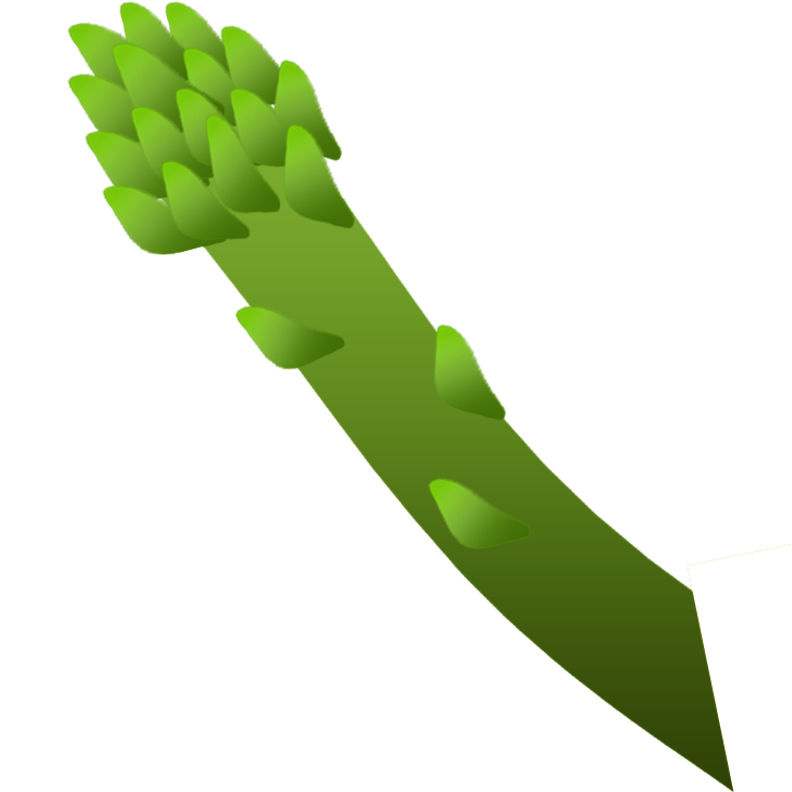
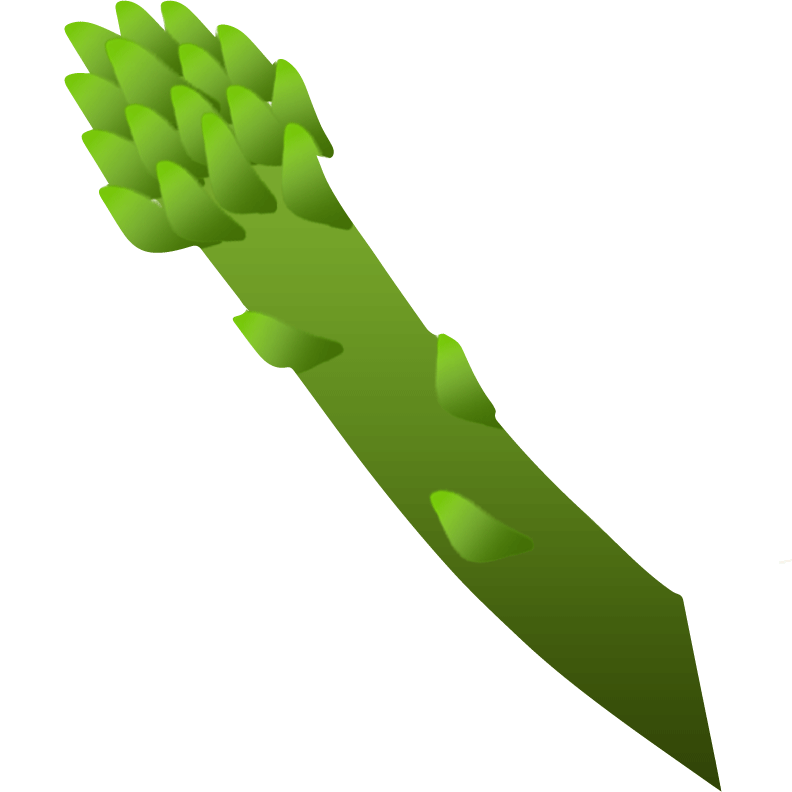
- Added new images since previous images had some errors - I know whats up with the saving stuff. We might have to some things - Tips and notes now save when you leave current view.

diff --git a/Garden_messaingaround/Garden_messaingaround/ViewControllerDisplayGarden.m b/Garden_messaingaround/Garden_messaingaround/ViewControllerDisplayGarden.m
@@ -397,29 +397,6 @@
 }
 
 -(UIImage *)capture{
-//    UIGraphicsBeginImageContext(self.view.bounds.size);
-//    [self.view.layer renderInContext:UIGraphicsGetCurrentContext()];
-//    UIImage *imageView = UIGraphicsGetImageFromCurrentImageContext();
-//    UIGraphicsEndImageContext();
-//    UIImageWriteToSavedPhotosAlbum(imageView, nil, nil, nil); //if you need to save
-//    return imageView;
-//    CGSize screenSize = [[UIScreen mainScreen] bounds].size;
-//    CGSize size = CGSizeMake(screenSize.width, screenSize.width);
-//    
-//    UIGraphicsBeginImageContextWithOptions(size, NO, [UIScreen mainScreen].scale);
-//    
-//    CGRect rec = CGRectMake(0, 0, screenSize.width, screenSize.width);
-//    [self.view drawViewHierarchyInRect:rec afterScreenUpdates:YES];
-//    
-//    UIImage *image = UIGraphicsGetImageFromCurrentImageContext();
-//    UIGraphicsEndImageContext();
-//    return image;
-//    
-//    
-//    UIGraphicsBeginImageContext(self.view.bounds.size);
-//    [self.parentViewController.view.layer renderInContext:UIGraphicsGetCurrentContext()];
-//    UIImage *image = UIGraphicsGetImageFromCurrentImageContext();
-//    UIGraphicsEndImageContext();
     
 //    http://stackoverflow.com/questions/14376249/creating-a-uiimage-from-a-uitableview
     
@@ -427,7 +404,6 @@
     
     CGRect frame = collectionView.frame;
     frame.size.height = collectionView.contentSize.height;
-//    frame.size.width = collectionView.contentSize.width;
     collectionView.frame = frame;
     
     UIGraphicsBeginImageContext(collectionView.bounds.size);
@@ -439,11 +415,11 @@
 }
 
 -(IBAction) takePhoto: (id) sender {
-    [shot setBackgroundColor:[UIColor colorWithPatternImage:[UIImage imageNamed:@"dirt3brown"]]];
+    shot.backgroundColor = [UIColor colorWithPatternImage:[UIImage imageNamed:@"dirt3brown"]];
     shot.image = [self capture];
-    [shot setNeedsDisplay];
     shot.hidden = NO;
     shot.alpha = 1.0f;
+    [shot setNeedsDisplay];
     [UIView animateWithDuration:0.5 delay:2.0 options:0 animations:^{
         shot.alpha = 0.0f;
     } completion:^(BOOL finished) {
@@ -480,9 +456,41 @@
     }
     
 }
+
+-(void) synchData {
+    NSLog(@"Kind of GlobalObjects is kind of : %@\n ",[[[GloablObjects instance].myGarden gardenArr2d]   class]);
+//    if([(NSMutableArray *)[[GloablObjects instance].myGarden gardenArr2d]  isKindOfClass:[NSArray class]]) {
+////    if ([[GloablObjects instance].myGarden gardenArr2d] isKindOfClass:[NSArray class] ) {
+//        [self.plant saveDatatoDefaults:[[GloablObjects instance].myGarden gardenArr2d] theGardenName:[[GloablObjects instance].myGarden name]];
+//    }
+    [self.view setNeedsDisplay];
+    NSLog(@"The Actual Plant Data contains real Objects: @\n%@\n ",[[self.plant plantsDataArray]objectAtIndex:0 ]);
+    NSLog(@"The Global Object contains addresses?: @\n%@\n ",[[GloablObjects instance].myGarden gardenArr2d]);
+
+    NSLog(@"This should return a garden name from saved file: @\n%@\n ",[self.plant getUserDataFromDefaults:[[GloablObjects instance].myGarden name]]);
+    
+}
+
+- (void)viewWillDisappear:(BOOL)animated
+{
+    if ([self isMovingFromParentViewController])
+    {
+        NSLog(@"View controller was popped");
+    }
+    else
+    {
+        NSLog(@"New view controller was pushed");
+        [self synchData];
+    }
+}
+
+
+
 - (void)didReceiveMemoryWarning {
     [super didReceiveMemoryWarning];
     // Dispose of any resources that can be recreated.
+    [self synchData];
+
 }
 
 

diff --git a/Garden_messaingaround/Garden_messaingaround/PlantObject.m b/Garden_messaingaround/Garden_messaingaround/PlantObject.m
@@ -21,11 +21,12 @@
     self = [super init];
     if (self) {
         
-        
+//        NSMutableArray *topLevelArray = [NSJSONSerialization JSONObjectWithData:data options:NSJSONReadingMutableContainers error:nil];
+//        NSDictionary *dict = topLevelArray[0];
         NSString *filePath = [[NSBundle mainBundle] pathForResource:@"plantDataReal" ofType:@"json"];
         NSString *myJSON = [[NSString alloc] initWithContentsOfFile:filePath encoding:NSUTF8StringEncoding error:NULL];
         NSError *error =  nil;
-        self.plantsDataArray = [NSJSONSerialization JSONObjectWithData:[myJSON dataUsingEncoding:NSUTF8StringEncoding] options:kNilOptions error:&error];
+        self.plantsDataArray = [NSJSONSerialization JSONObjectWithData:[myJSON dataUsingEncoding:NSUTF8StringEncoding] options:NSJSONReadingMutableContainers error:&error];
         self.usersPlants = [NSMutableArray array];
     }
     return self;
@@ -167,16 +168,33 @@
     
     if (![[NSFileManager defaultManager] fileExistsAtPath:userDataPath])
         [[NSFileManager defaultManager] createDirectoryAtPath:userDataPath withIntermediateDirectories:NO attributes:nil error:&error]; //Create folder
-    
-//    NSString *yourSoundPath = [documentsDirectory stringByAppendingPathComponent:filename];
     NSLog(@"Get Path is: %@\n", userDataPath);
     
     NSString *content = [NSString stringWithContentsOfFile:userDataPath encoding:NSUTF8StringEncoding error:NULL];
     
-//    NSError *jsonError;
-//    NSMutableDictionary *jsonDict = [NSJSONSerialization JSONObjectWithData:[jsonString dataUsingEncoding:NSUTF8StringEncoding] options:NSJSONReadingMutableContainers error:&jsonError];
-    
     return content;
+}
+
+
+
+
+-(void) saveDatatoDefaults: (NSMutableArray *) userGardendata theGardenName: (NSString *) gardenName {    NSUserDefaults *defaults = [NSUserDefaults standardUserDefaults];    if([[NSUserDefaults standardUserDefaults] objectForKey:gardenName] != nil) {
+        [[NSUserDefaults standardUserDefaults] synchronize];
+    } else {
+        [defaults setObject:[userGardendata mutableCopy] forKey:gardenName];
+        [[NSUserDefaults standardUserDefaults] synchronize];
+
+    }
+    
+}
+
+- (id) objectFromDataWithKey:(NSString*)key {
+    NSData *data = [[NSUserDefaults standardUserDefaults] objectForKey:key];
+    return [NSKeyedUnarchiver unarchiveObjectWithData:data];
+}
+
+-(NSMutableArray *) getUserDataFromDefaults: (NSString *) gardenName {    return [self objectFromDataWithKey:gardenName] ;
+    
 }
 
 -(void) setImage: (NSString *) imageURL {

diff --git a/Garden_messaingaround/Garden_messaingaround/ViewControllerPlantViews.m b/Garden_messaingaround/Garden_messaingaround/ViewControllerPlantViews.m
@@ -54,13 +54,7 @@
     
     // The main act...
     [[[md description] dataUsingEncoding:NSUTF8StringEncoding] writeToFile:fileAtPath atomically:NO];
-    
-//    
-//    NSData* jsonData = [NSJSONSerialization dataWithJSONObject:self.plant.plantsDataArray
-//                                                                               options:kNilOptions
-//                                                                                 error:nil];
-//    [jsonData writeToURL:[NSURL fileURLWithPath:[NSString stringWithFormat:@"%@%@",
-//                                                 NSTemporaryDirectory(), @"plantDataReal.json"]] atomically:YES];
+
     [table reloadData];
     
 //    [self.plant.plantsDataArray addObject:@"{\"Test\": \"Test\"}"];
@@ -134,6 +128,7 @@
     previewImage.backgroundColor = [[UIColor whiteColor] colorWithAlphaComponent:0.5f];
     previewImage.image = [UIImage imageNamed:imgName];
     
+    // Save the comment
 
     clickedIndex = indexPath.row;
     
@@ -144,6 +139,7 @@
 // Hide the keyboard when losing focus on the UITextField for comments
 - (void)touchesBegan:(NSSet *)touches withEvent:(UIEvent *)event {
     
+    [self updateComment:self];
     UITouch *touch = [[event allTouches] anyObject];
     if ([comment isFirstResponder] && [touch view] != comment) {
         [comment resignFirstResponder];
@@ -211,6 +207,7 @@
 - (void)didReceiveMemoryWarning {
     [super didReceiveMemoryWarning];
     // Dispose of any resources that can be recreated.
+    [self updateComment:self];
 }
 
 /*
@@ -298,6 +295,7 @@
                                                object:nil];
 }
 
+
 - (void)viewWillDisappear:(BOOL)animated
 {
     [super viewWillDisappear:animated];
@@ -309,6 +307,7 @@
     [[NSNotificationCenter defaultCenter] removeObserver:self
                                                     name:UIKeyboardWillHideNotification
                                                   object:nil];
+    [self updateComment:self];
 }
 
 @end

diff --git a/Garden_messaingaround/Garden_messaingaround/ViewControllerNotes.m b/Garden_messaingaround/Garden_messaingaround/ViewControllerNotes.m
@@ -95,9 +95,9 @@
 
 -(IBAction) newNote: (id) sender {
     [self saveNote];
-    NSString *note = @"New Note";
+    NSString *note = @"";
     [[GloablObjects notesInstance].notesArray addObject:note];
-    notesField.text =[NSString stringWithFormat:@"%@ ...", note];
+    notesField.text =[NSString stringWithFormat:@"%@ ", note];
     [notesField showsHorizontalScrollIndicator];
     [tableView reloadData];
     [self enableNoteField];
@@ -192,9 +192,18 @@
 
 }
 
+- (void)viewWillDisappear:(BOOL)animated
+{
+    [super viewWillDisappear:animated];
+    // unregister for keyboard notifications while not visible.
+    [self saveNote];
+}
+
+
 - (void)didReceiveMemoryWarning {
     [super didReceiveMemoryWarning];
     // Dispose of any resources that can be recreated.
+    [self saveNote];
 }
 
 /*

diff --git a/Garden_messaingaround/Garden_messaingaround/PlantObject.h b/Garden_messaingaround/Garden_messaingaround/PlantObject.h
@@ -58,4 +58,8 @@
 -(void)saveGardenToFile:(NSMutableArray *)data gardenName:(NSString *) gName ;
 -(NSString *)getSavedGardenFromFile: (NSString *) gardenToGet;
 
+
+-(void) saveDatatoDefaults: (NSMutableArray *) userGardendata theGardenName: (NSString *) gardenName ;
+-(NSMutableArray *) getUserDataFromDefaults: (NSString *) gardenName ;
+
 @end
